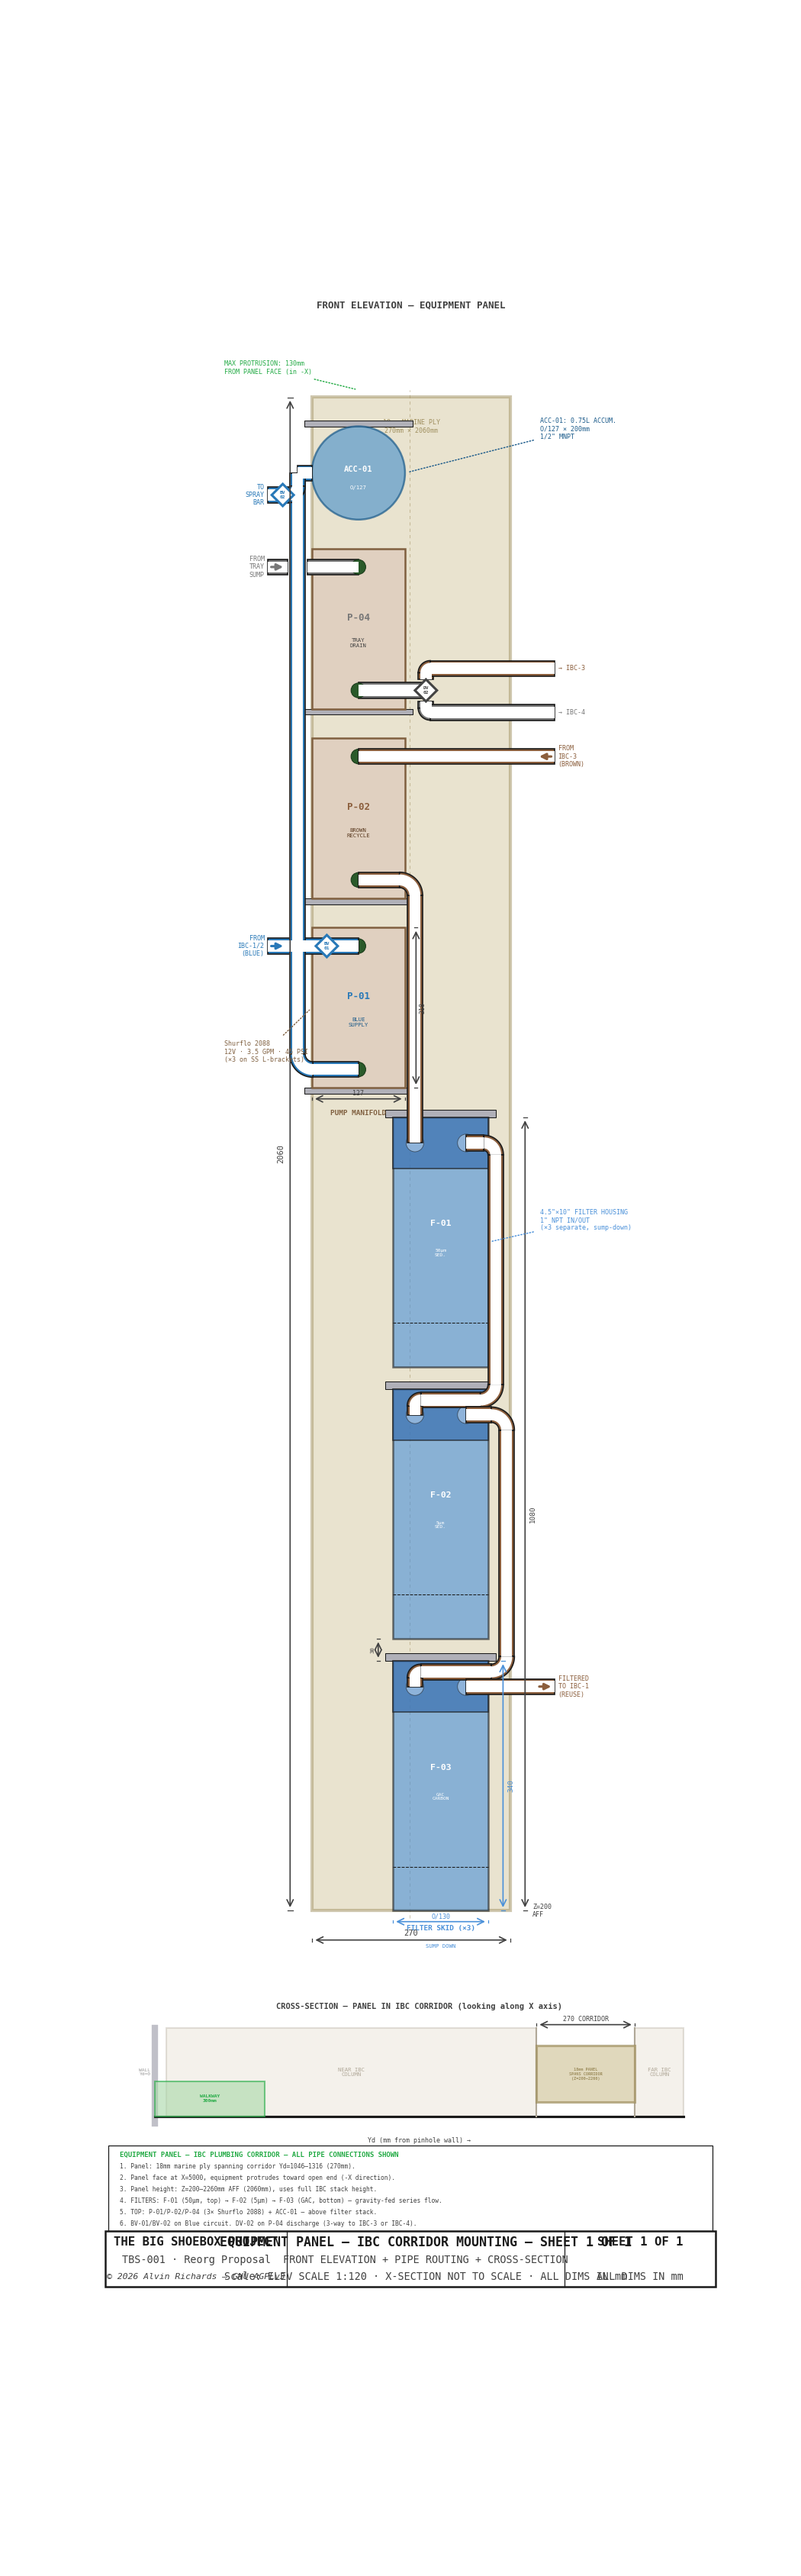
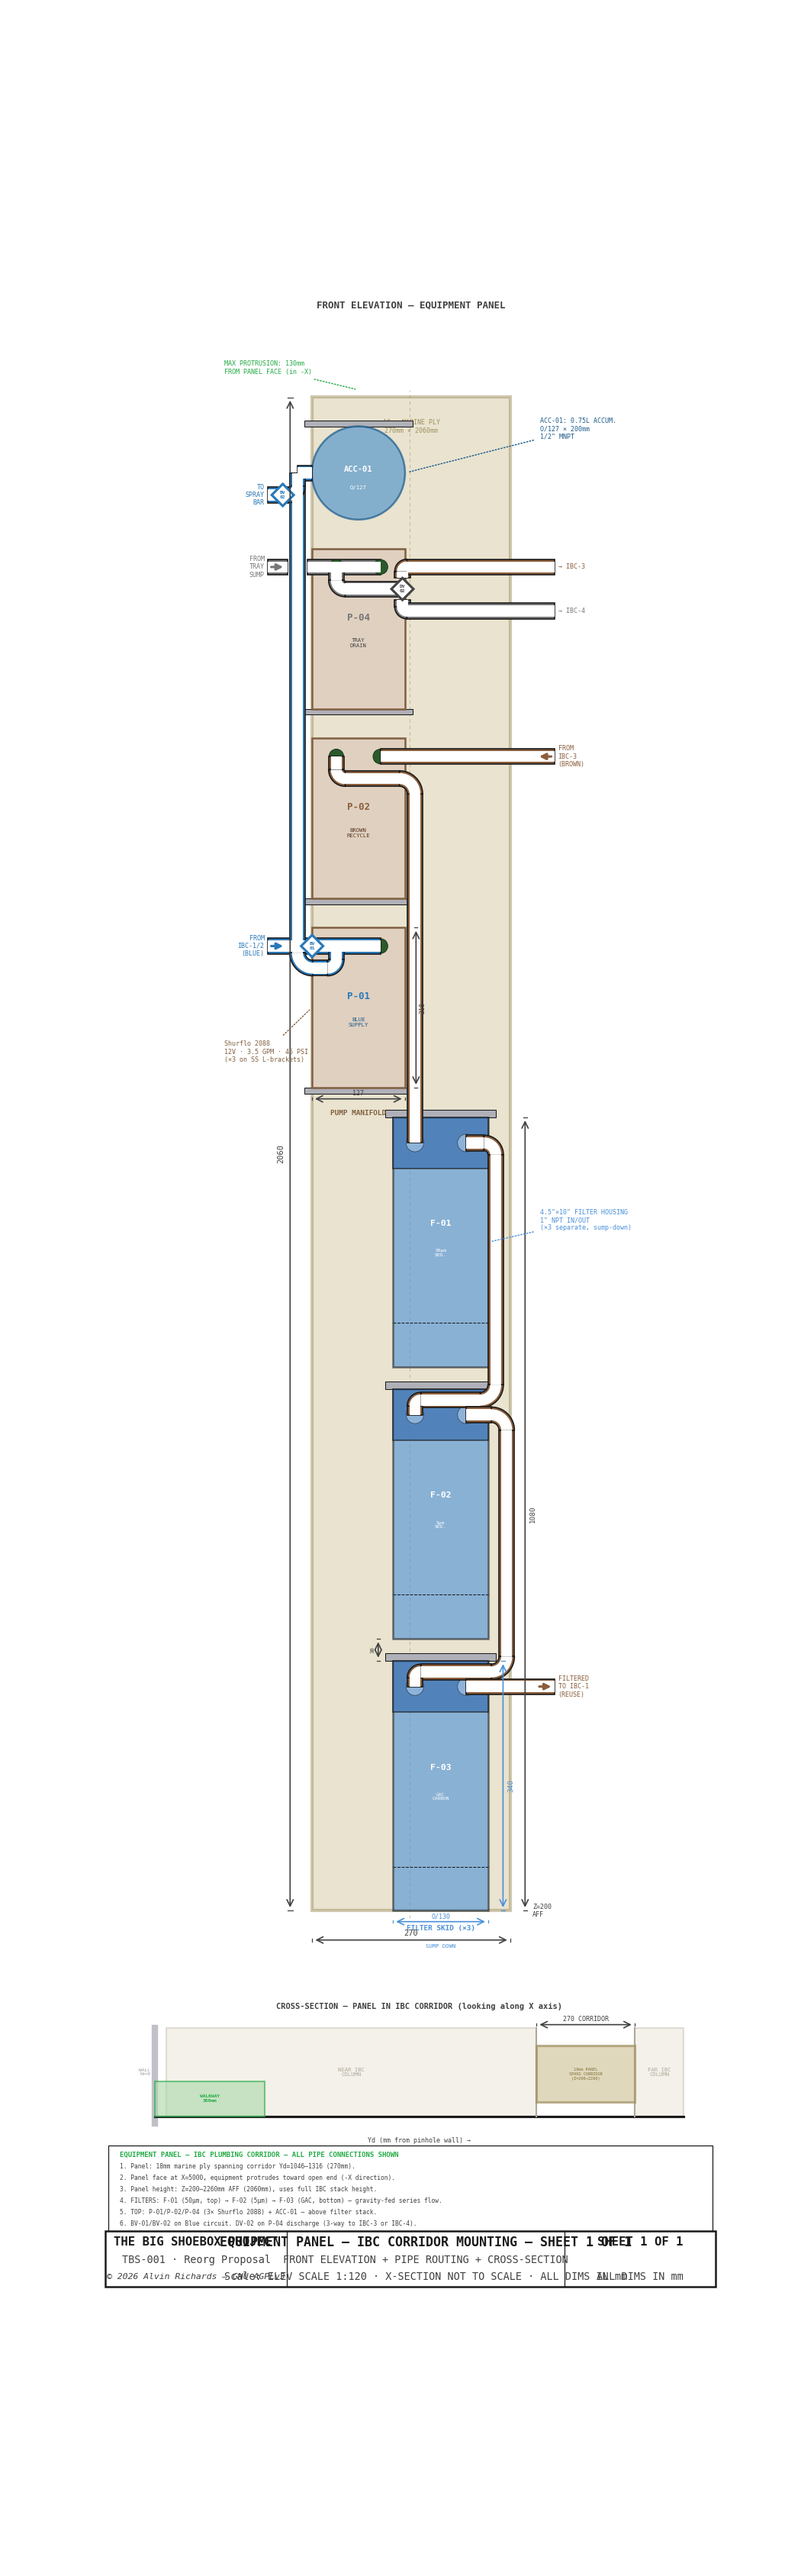
Fix pump ports: side by side at head, outlet LEFT, inlet RIGHT
Shurflo 2088 has both ports on the pump head, not at opposite ends.
Draw both port circles at the same Z (top of body), offset horizontally.
Discharge pipes drop 30mm below port Z before routing to avoid
overlapping the suction line at the same level.

Changed region(s): [[0.3657, 0.2178, 0.701, 0.4356]]

diff --git a/generate_panel_layout.py b/generate_panel_layout.py
@@ -40,10 +40,11 @@ PANEL_H  = 2060  # face height (mm, Z span: 200–2260)
 PANEL_Z_AFF = 200  # panel bottom Z above finished floor
 
 # ── Shurflo 2088 pump dimensions ─────────────────────────────────────────
-PUMP_W   = 127   # front face width (mm) — port-to-port
+PUMP_W   = 127   # front face width (mm)
 PUMP_H   = 218   # front face height (mm) — body length, vertical mount
 PUMP_D   = 100   # depth from panel (mm)
 PUMP_GAP = 40    # vertical gap between pumps (mm)
+PORT_HALF = 30   # half of port-to-port spacing (mm)
 
 # ── Accumulator ───────────────────────────────────────────────────────────
 ACC_OD  = 127    # body OD (mm)
@@ -71,6 +72,8 @@ FILT_STACK_TOP = F01_Z + FILT_H       # = 1080
 
 # Left column: 3 pumps stacked vertically + ACC-01 above — TOP
 PUMP_COL = PUMP_W // 2               # = 63mm from left edge (127mm zone center)
+PORT_IN_YD  = PUMP_COL + PORT_HALF   # right — inlet (suction)
+PORT_OUT_YD = PUMP_COL - PORT_HALF   # left — outlet (discharge)
 PUMP_ZONE_BOT = FILT_STACK_TOP + 40  # = 1120 (40mm gap above filter stack)
 
 P01_Z = PUMP_ZONE_BOT                 # = 1120
@@ -196,9 +199,9 @@ for pname, pdesc, pz, pfc, pec in pump_specs:
     # Pump body
     rect(PUMP_COL - PUMP_W / 2, pz, PUMP_W, PUMP_H,
          C_PUMP_BODY, C_PUMP_EC, lw=1.2, zorder=6)
-    # Port indicators (top and bottom)
-    for port_z in [pz + 25, pz + PUMP_H - 25]:
-        circ(PUMP_COL, port_z, 10,
+    # Port indicators (side by side at head — outlet LEFT, inlet RIGHT)
+    for port_yd in [PORT_OUT_YD, PORT_IN_YD]:
+        circ(port_yd, pz + PUMP_H - 25, 10,
              C_PIPE_FILL, C_PIPE_EC, lw=0.5, zorder=7)
     # Label
     ax.text(sx(PUMP_COL), sz(pz + PUMP_H / 2 + 15),
@@ -304,13 +307,12 @@ Z_BLACK = 6
 Z_BROWN = 7
 Z_BLUE  = 8
 
-# ── Port Z positions (panel-relative) ──
-P01_PT = P01_Z + PUMP_H - 25   # top port
-P01_PB = P01_Z + 25            # bottom port
-P02_PT = P02_Z + PUMP_H - 25
-P02_PB = P02_Z + 25
-P04_PT = P04_Z + PUMP_H - 25
-P04_PB = P04_Z + 25
+# ── Port Z positions (both ports at pump head, side by side) ──
+PORT_DROP = 30               # discharge route drops below port Z to avoid suction overlap
+
+P01_PORT_Z = P01_Z + PUMP_H - 25
+P02_PORT_Z = P02_Z + PUMP_H - 25
+P04_PORT_Z = P04_Z + PUMP_H - 25
 
 # ── Filter head Z positions ──
 F01_HEAD_Z = F01_Z + FILT_H - FILT_HEAD / 2   # top filter head
@@ -332,13 +334,13 @@ EXIT_L = -60    # past left panel edge (near wall / walkway)
 EXIT_R = 330    # past right panel edge (far wall / IBCs)
 
 # ── Valve positions ──
-BV01_YD = 20
-BV01_Z  = P01_PT
+BV01_YD = 0
+BV01_Z  = P01_PORT_Z
 BV02_YD = -40
 DISCH_EXIT_Z = ACC_Z - 30   # discharge exit offset below ACC tee
 BV02_Z  = DISCH_EXIT_Z
-DV02_YD = 155
-DV02_Z  = P04_PB
+DV02_YD = PORT_IN_YD + 30
+DV02_Z  = P04_PORT_Z - PORT_DROP
 
 # ── Flow arrow style ──
 _AW = 25
@@ -458,23 +460,23 @@ def draw_ball_valve(x, z, label, color):
 #  BLUE SYSTEM (C_BLUE)
 # ════════════════════════════════════════════════════════════════
 
-# Blue suction: IBC-1/2 (near column, LEFT) → BV-01 → P-01 top port
+# Blue suction: IBC-1/2 (LEFT) → BV-01 → P-01 inlet (RIGHT port)
 draw_pipe_path(ax,
-    [EXIT_L, PUMP_COL],
-    [P01_PT, P01_PT],
+    [EXIT_L, PORT_IN_YD],
+    [P01_PORT_Z, P01_PORT_Z],
     PIPE_OD, PIPE_WALL, fc=C_BLUE, zorder=Z_BLUE)
 draw_ball_valve(BV01_YD, BV01_Z, "BV\n01", C_BLUE)
-ax.annotate("", xy=(sx(EXIT_L + _AW), sz(P01_PT)),
-            xytext=(sx(EXIT_L), sz(P01_PT)),
+ax.annotate("", xy=(sx(EXIT_L + _AW), sz(P01_PORT_Z)),
+            xytext=(sx(EXIT_L), sz(P01_PORT_Z)),
             arrowprops=dict(**_arrow_kw, color=C_BLUE), zorder=11)
-ax.text(sx(EXIT_L - 5), sz(P01_PT),
+ax.text(sx(EXIT_L - 5), sz(P01_PORT_Z),
         "FROM\nIBC-1/2\n(BLUE)", ha="right", va="center",
         fontsize=4, color=C_BLUE, zorder=10, **FONT)
 
-# Blue discharge: P-01 bottom → left riser → up to ACC-01 → BV-02 → exit LEFT
+# Blue discharge: P-01 outlet (LEFT port) → drop → left riser → up to ACC-01
 draw_pipe_path(ax,
-    [PUMP_COL, DISCH_RAIL, DISCH_RAIL],
-    [P01_PB, P01_PB, ACC_Z],
+    [PORT_OUT_YD, PORT_OUT_YD, DISCH_RAIL, DISCH_RAIL],
+    [P01_PORT_Z, P01_PORT_Z - PORT_DROP, P01_PORT_Z - PORT_DROP, ACC_Z],
     PIPE_OD, PIPE_WALL, fc=C_BLUE, zorder=Z_BLUE)
 # ACC-01 tee
 draw_pipe_path(ax,
@@ -499,22 +501,22 @@ ax.text(sx(EXIT_L - 5), sz(DISCH_EXIT_Z),
 #  BROWN SYSTEM (C_BROWN)
 # ════════════════════════════════════════════════════════════════
 
-# Brown suction: IBC-3 (far column, RIGHT) → P-02 top port
+# Brown suction: IBC-3 (far column, RIGHT) → P-02 inlet (RIGHT port)
 draw_pipe_path(ax,
-    [EXIT_R, PUMP_COL],
-    [P02_PT, P02_PT],
+    [EXIT_R, PORT_IN_YD],
+    [P02_PORT_Z, P02_PORT_Z],
     PIPE_OD, PIPE_WALL, fc=C_BROWN, zorder=Z_BROWN)
-ax.annotate("", xy=(sx(EXIT_R - _AW), sz(P02_PT)),
-            xytext=(sx(EXIT_R), sz(P02_PT)),
+ax.annotate("", xy=(sx(EXIT_R - _AW), sz(P02_PORT_Z)),
+            xytext=(sx(EXIT_R), sz(P02_PORT_Z)),
             arrowprops=dict(**_arrow_kw, color=C_BROWN), zorder=11)
-ax.text(sx(EXIT_R + 5), sz(P02_PT),
+ax.text(sx(EXIT_R + 5), sz(P02_PORT_Z),
         "FROM\nIBC-3\n(BROWN)", ha="left", va="center",
         fontsize=4, color=C_BROWN, zorder=10, **FONT)
 
-# Brown discharge: P-02 bottom → F-01 IN (F-01 at top of filter stack)
+# Brown discharge: P-02 outlet (LEFT port) → drop → right to F_IN_YD → down to F-01
 draw_pipe_path(ax,
-    [PUMP_COL, F_IN_YD, F_IN_YD],
-    [P02_PB, P02_PB, F01_HEAD_Z],
+    [PORT_OUT_YD, PORT_OUT_YD, F_IN_YD, F_IN_YD],
+    [P02_PORT_Z, P02_PORT_Z - PORT_DROP, P02_PORT_Z - PORT_DROP, F01_HEAD_Z],
     PIPE_OD, PIPE_WALL, fc=C_BROWN, zorder=Z_BROWN)
 
 # Filter jumpers — gravity-fed downward: F-01 → F-02 → F-03
@@ -553,27 +555,27 @@ ax.text(sx(EXIT_R + 5), sz(F03_HEAD_Z),
 #  TRAY DRAIN / BLACK SYSTEM (C_BLACK_SYS)
 # ════════════════════════════════════════════════════════════════
 
-# Tray drain suction: LEFT → P-04 top port (gap at Blue discharge riser)
+# Tray drain suction: LEFT → P-04 inlet (RIGHT port, gap at Blue discharge riser)
 _gap_half = PIPE_OD / 2 + 3
 draw_pipe_path(ax,
     [EXIT_L, DISCH_RAIL - _gap_half],
-    [P04_PT, P04_PT],
+    [P04_PORT_Z, P04_PORT_Z],
     PIPE_OD, PIPE_WALL, fc=C_BLACK_SYS, zorder=Z_BLACK)
 draw_pipe_path(ax,
-    [DISCH_RAIL + _gap_half, PUMP_COL],
-    [P04_PT, P04_PT],
+    [DISCH_RAIL + _gap_half, PORT_IN_YD],
+    [P04_PORT_Z, P04_PORT_Z],
     PIPE_OD, PIPE_WALL, fc=C_BLACK_SYS, zorder=Z_BLACK)
-ax.annotate("", xy=(sx(EXIT_L + _AW), sz(P04_PT)),
-            xytext=(sx(EXIT_L), sz(P04_PT)),
+ax.annotate("", xy=(sx(EXIT_L + _AW), sz(P04_PORT_Z)),
+            xytext=(sx(EXIT_L), sz(P04_PORT_Z)),
             arrowprops=dict(**_arrow_kw, color=C_BLACK_SYS), zorder=11)
-ax.text(sx(EXIT_L - 5), sz(P04_PT),
+ax.text(sx(EXIT_L - 5), sz(P04_PORT_Z),
         "FROM\nTRAY\nSUMP", ha="right", va="center",
         fontsize=4, color=C_BLACK_SYS, zorder=10, **FONT)
 
-# P-04 discharge → DV-02
+# P-04 discharge: outlet (LEFT port) → drop → right to DV-02
 draw_pipe_path(ax,
-    [PUMP_COL, DV02_YD],
-    [P04_PB, P04_PB],
+    [PORT_OUT_YD, PORT_OUT_YD, DV02_YD],
+    [P04_PORT_Z, DV02_Z, DV02_Z],
     PIPE_OD, PIPE_WALL, fc=C_BLACK_SYS, zorder=Z_BLACK)
 
 # DV-02 (3-way diverter — diamond symbol)
